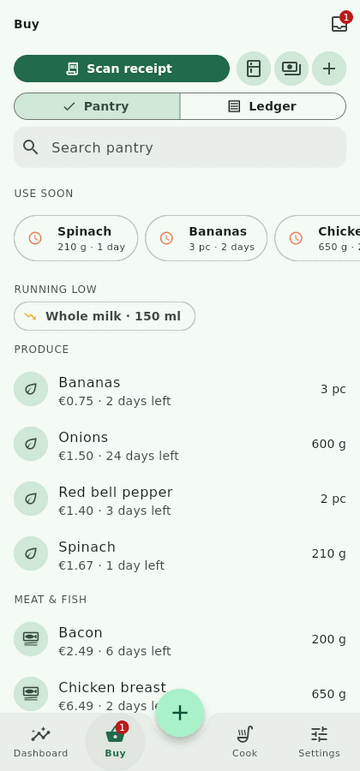
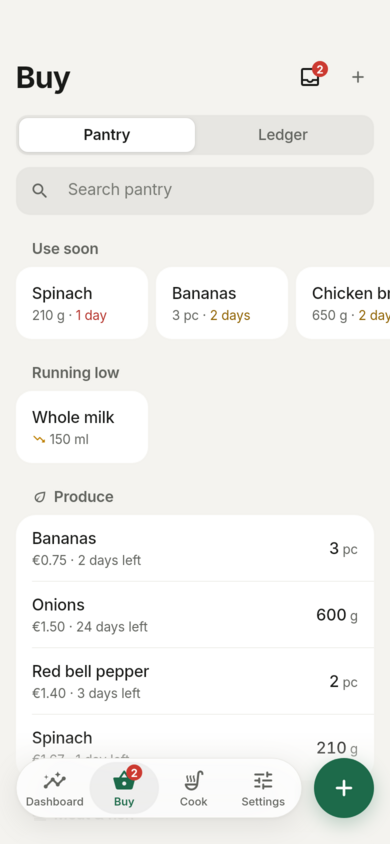
docs: new screenshots, design-system and screenshot-tool notes
Claude-Session: https://claude.ai/code/session_01BQNzMdcWcCF2b21JKBDyWJ

diff --git a/CLAUDE.md b/CLAUDE.md
@@ -8,6 +8,7 @@ Flutter app (Android/iOS; Linux desktop for local UI checks) with a local Isar d
 - `flutter test` (all green; widget smoke tests use the live binding and take ~20 s)
 - `dart run build_runner build` after editing `lib/data/isar/collections/*.dart`
 - `flutter run -d linux --dart-define=DEMO=true` seeds demo data into an empty DB. Add `--dart-define=THEME=dark` for dark mode.
+- `flutter test tool/screenshots_test.dart [--dart-define=THEME=dark]` renders every major screen on demo data at phone size into `build/screenshots/<theme>/` (`SHOTS_DIR`, `SHOTS_ONLY=01-,07-` to filter). Check visual changes with it.
 - `GEMINI_API_KEY=... EVAL_BACKUP=backup.json flutter test tool/model_eval_test.dart` compares Gemini models on real data (Today's Pick and receipts) and writes `build/model_eval/*/report.md`. It spends real quota; options are in the file header.
 
 ## Gotchas
@@ -23,3 +24,8 @@ Flutter app (Android/iOS; Linux desktop for local UI checks) with a local Isar d
 - `lib/domain` has no I/O and never touches an `Isar` instance.
 - Cooking deducts stock and creates a `CookSession` (the fridge). Intake is logged when a portion is eaten (`DailyLog`).
 - Undo instead of confirm: hot paths commit on the last tap and show `showUndo`.
+
+## Design system
+- `docs/design/DESIGN_SYSTEM.md` is the source of truth for type, color, spacing and components; `SCREENS.md` has per-screen specs. Tokens live in `lib/app/theme.dart` (`AppSpace`, `AppRadius`, `AppMotion`, `context.nums`, `context.colors`); shared widgets in `lib/features/common/widgets.dart`. Reuse them; don't hard-code colors or sizes.
+- Multi-line titles use `NoWidowText`, " · " meta lines `SeparatedText`, numbers with units `valueSpan` (one `Text.rich`). Status is never shown by color alone.
+- Widget tests find copy with `textExact`/`textCI` from `test/support/app_harness.dart` (they treat no-break spaces as spaces). `docs/redesign/BASELINE.md` lists the UI contract each screen must keep.

diff --git a/README.md b/README.md
@@ -15,7 +15,7 @@ A personal **micro-procurement, pantry and meal-prep tracker** built with Flutte
   </tr>
 </table>
 
-*Screenshots are from the Linux desktop build with demo data (`--dart-define=DEMO=true`).*
+*Screenshots come from `tool/screenshots_test.dart`, which renders the real app on demo data at phone size (390 × 844).*
 
 ## What it does
 
@@ -32,7 +32,7 @@ Principles: every log takes ≤ 3 seconds, the LLM proposes and Dart does the ma
 
 **Built and verified in this repo**
 - All 33 sprints from the [sprint plan](docs/06-sprint-plan.md) are implemented.
-- 111 automated tests pass: domain math, use cases against a real Isar database, the full AI pipeline against a scripted fake Gemini endpoint (including repair retries and allergen rejection), and widget smoke tests that drive the whole app. `flutter analyze` is clean.
+- 168 automated tests pass: domain math, use cases against a real Isar database, the full AI pipeline against a scripted fake Gemini endpoint (including repair retries and allergen rejection), and widget smoke tests that drive the whole app. `flutter analyze` is clean.
 - The Linux desktop build runs. The screenshots above come from it.
 
 **Not verified here (needs your machine)**
@@ -57,7 +57,7 @@ On first launch, onboarding asks for your goals and staples, optionally takes 3 
 
 ```bash
 flutter analyze
-flutter test                      # 111 tests; Isar's native core is loaded from the Linux plugin in your pub cache
+flutter test                      # 168 tests; Isar's native core is loaded from the Linux plugin in your pub cache
 dart run build_runner build       # after changing anything in lib/data/isar/collections/
 flutter run -d linux --dart-define=DEMO=true   # quick UI iteration (needs libgtk-3-dev, libsecret-1-dev)
 ```
